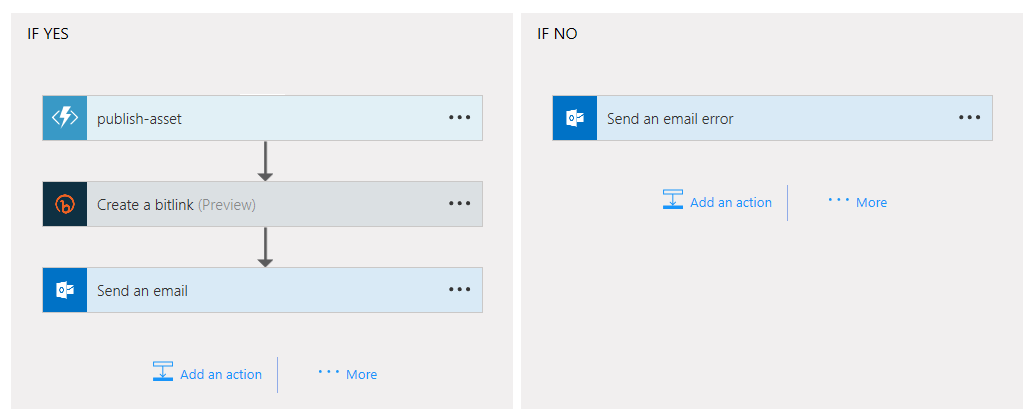
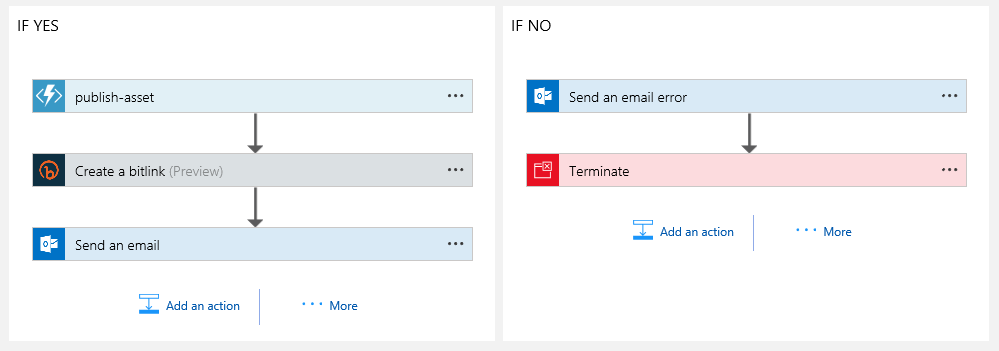
Adds a terminate/failed step in the advanced logic app

diff --git a/media-functions-for-logic-app/logicapp1-simplevod-screen.md b/media-functions-for-logic-app/logicapp1-simplevod-screen.md
@@ -1,3 +1,4 @@
 ![Screen capture](images/logicapp1-simplevod-d-1.png?raw=true)
 ![Screen capture](images/logicapp1-simplevod-d-2.png?raw=true)
 ![Screen capture](images/logicapp1-simplevod-d-3.png?raw=true)
+![Screen capture](images/logicapp1-simplevod-d-4.png?raw=true)
